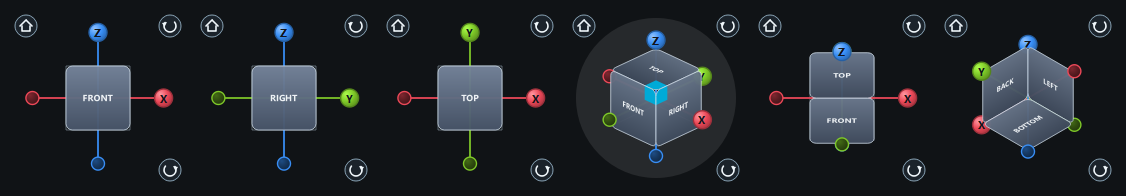
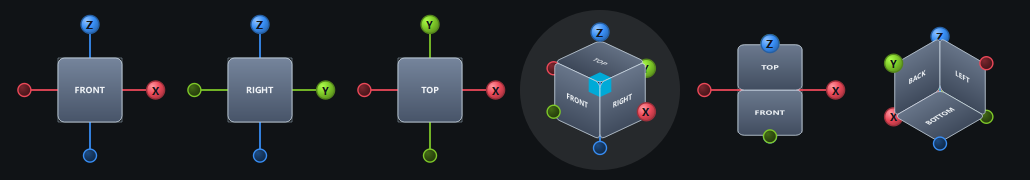
UX-27c: remove home/roll buttons; fix half-pixel misalignment that made labels look skewed
- The gizmo had home and roll buttons in its corners; review found them poor, so
  they are gone. Isometric (Ctrl+7) and Roll View Left/Right remain in the View
  menu and the command palette. Widget is smaller (160 px) without them.
- Live-window bug: the overlay image was centred on size/2 instead of
  (size-1)/2, so every display pixel sat on the boundary of two image pixels and
  glyph rows rounded unevenly. Head-on labels looked jagged/skewed in the running
  app while offscreen renders looked fine. The camera is now pixel-aligned and the
  image actor interpolates, so a fractional scale degrades smoothly.
- Faces are opaque (the see-through fill let the grid show through).
- Labels on faces turned steeply away fade out instead of smearing.

708 tests pass, ruff and mypy clean. Checked in the running app at 4x zoom.

diff --git a/src/openretop/presentation/qt/view_cube.py b/src/openretop/presentation/qt/view_cube.py
@@ -1,4 +1,4 @@
-"""Clickable orientation gizmo for the viewport: a glass view cube with XYZ axis balls.
+"""Clickable orientation gizmo for the viewport: a view cube with XYZ axis balls.
 
 The gizmo mirrors the main camera.  Each visible cube face is labelled (FRONT, BACK,
 LEFT, RIGHT, TOP, BOTTOM) and every face, edge and corner is a click target that snaps
@@ -6,7 +6,8 @@ the camera to that direction.  Faces are split 3x3 like a conventional CAD view 
 the centre is the face view, the border strips are edge views, and the corners are
 three-face (isometric style) views.  Around the cube, coloured balls mark the axes
 (solid for +X/+Y/+Z with a letter, muted for the negative ends); clicking one looks
-along that axis, as in Blender's navigation gizmo.
+along that axis, as in Blender's navigation gizmo.  There are deliberately no extra
+buttons: the isometric view and view roll are in the View menu and the command palette.
 
 Geometry and hit-testing are pure functions of the camera orientation so they can be
 unit-tested without Qt; :class:`ViewCubeWidget` only paints them.
@@ -32,7 +33,6 @@ from PySide6.QtGui import (
     QPainter,
     QPainterPath,
     QPen,
-    QPolygonF,
     QRadialGradient,
     QTransform,
 )
@@ -41,12 +41,11 @@ from PySide6.QtWidgets import QWidget
 Vec2 = tuple[float, float]
 Vec3 = tuple[float, float, float]
 
-CUBE_WIDGET_SIZE = 176
-CUBE_MARGIN = 10
+CUBE_WIDGET_SIZE = 160
+CUBE_MARGIN = 8
 CUBE_SCALE = 32.0  # pixels per cube half-edge
 _BAND = 0.5  # |local coordinate| beyond this on a face is an edge/corner strip
 _MIN_FACING = 0.02  # faces nearly edge-on are not drawn or clickable
-_ROLL_DEGREES_TEXT = "15 degrees"
 AXIS_DISTANCE = 2.05  # axis balls sit this many half-edges from the centre
 _AXIS_HIDE_OFFSET = 1.0  # a ball nearly end-on to the viewer would cover the cube face
 _BALL_RADIUS = (9.0, 6.5)  # positive, negative
@@ -71,9 +70,6 @@ _FACES: tuple[tuple[str, Vec3, Vec3, Vec3], ...] = (
     ("top", (0.0, 0.0, 1.0), (1.0, 0.0, 0.0), (0.0, 1.0, 0.0)),
     ("bottom", (0.0, 0.0, -1.0), (-1.0, 0.0, 0.0), (0.0, 1.0, 0.0)),
 )
-HOME_ACTION = "view.named.isometric"
-ROLL_LEFT_ACTION = "view.roll_left"
-ROLL_RIGHT_ACTION = "view.roll_right"
 
 
 @dataclass(frozen=True, slots=True)
@@ -236,7 +232,7 @@ class CubeHit:
 
 
 class ViewCubeWidget(QWidget):
-    """Paints the cube, XYZ axis balls and home/roll buttons, and hit-tests them.
+    """Paints the cube and XYZ axis balls, and hit-tests them.
 
     A Qt child widget cannot draw over QVTK's native OpenGL surface, so in the app this
     widget is never shown: the cluster renders it to an image (:meth:`render_image`),
@@ -320,16 +316,6 @@ class ViewCubeWidget(QWidget):
     def _to_view(self, point: QPointF) -> Vec2:
         return ((point.x() - self._centre.x()) / CUBE_SCALE, (self._centre.y() - point.y()) / CUBE_SCALE)
 
-    def _button_rect(self, action_id: str) -> QRectF:
-        size = 24.0
-        if action_id == HOME_ACTION:
-            return QRectF(CUBE_MARGIN - 6, CUBE_MARGIN - 6, size, size)
-        if action_id == ROLL_LEFT_ACTION:
-            return QRectF(CUBE_WIDGET_SIZE - size - CUBE_MARGIN + 6, CUBE_MARGIN - 6, size, size)
-        return QRectF(CUBE_WIDGET_SIZE - size - CUBE_MARGIN + 6, CUBE_WIDGET_SIZE - size - CUBE_MARGIN + 6, size, size)
-
-    _BUTTONS = (HOME_ACTION, ROLL_LEFT_ACTION, ROLL_RIGHT_ACTION)
-
     @property
     def axes(self) -> tuple[AxisBall, ...]:
         return self._axes
@@ -340,15 +326,6 @@ class ViewCubeWidget(QWidget):
     def hit_at(self, point: QPointF) -> CubeHit | None:
         """What a click at ``point`` (widget pixels) would do, or None."""
 
-        if self._show_cube:
-            titles = {
-                HOME_ACTION: "Isometric view (Ctrl+7)",
-                ROLL_LEFT_ACTION: f"Roll view left {_ROLL_DEGREES_TEXT}",
-                ROLL_RIGHT_ACTION: f"Roll view right {_ROLL_DEGREES_TEXT}",
-            }
-            for action_id in self._BUTTONS:
-                if self._button_rect(action_id).contains(point):
-                    return CubeHit(action_id, titles[action_id])
         view_point = self._to_view(point)
         if self._show_axes:
             for ball in sorted(self._axes, key=lambda item: item.depth):  # nearest first
@@ -416,7 +393,7 @@ class ViewCubeWidget(QWidget):
         hover_axis = hover[len("view.named.") : -len("#axis")] if hover is not None and hover.endswith("#axis") else None
         hover_name = (
             hover[len("view.named.") :]
-            if hover is not None and hover.startswith("view.named.") and not hover.endswith("#axis") and hover != HOME_ACTION
+            if hover is not None and hover.startswith("view.named.") and not hover.endswith("#axis")
             else None
         )
         # Painter's algorithm: far to near, so balls pass behind and in front of the cube.
@@ -434,9 +411,6 @@ class ViewCubeWidget(QWidget):
                 items.append((ball.depth, partial(self._paint_ball, painter, ball, ball.name == hover_axis)))
         for _depth, draw in sorted(items, key=lambda item: -item[0]):
             draw()
-        if self._show_cube:
-            for action_id in self._BUTTONS:
-                self._paint_button(painter, action_id)
 
     def _face_path(self) -> QPainterPath:
         s = CUBE_SCALE
@@ -467,8 +441,8 @@ class ViewCubeWidget(QWidget):
         painter.setTransform(self._face_transform(face), False)
         shade = 0.70 + 0.30 * face.facing
         gradient = QLinearGradient(0.0, -s, 0.0, s)
-        gradient.setColorAt(0.0, QColor.fromRgbF(0.46 * shade, 0.52 * shade, 0.61 * shade, 0.96))
-        gradient.setColorAt(1.0, QColor.fromRgbF(0.28 * shade, 0.33 * shade, 0.41 * shade, 0.96))
+        gradient.setColorAt(0.0, QColor.fromRgbF(0.46 * shade, 0.52 * shade, 0.61 * shade))
+        gradient.setColorAt(1.0, QColor.fromRgbF(0.28 * shade, 0.33 * shade, 0.41 * shade))
         path = self._face_path()
         painter.setPen(Qt.PenStyle.NoPen)
         painter.setBrush(gradient)
@@ -499,7 +473,9 @@ class ViewCubeWidget(QWidget):
         bounds = text.boundingRect()
         text.translate(-bounds.center().x(), -bounds.center().y())
         painter.setPen(Qt.PenStyle.NoPen)
-        painter.setBrush(QColor(248, 251, 253, 240))
+        # Labels on faces turned steeply away would only be a smear: fade them out.
+        legibility = min(max((face.facing - 0.2) / 0.35, 0.0), 1.0)
+        painter.setBrush(QColor(248, 251, 253, round(240 * legibility)))
         painter.drawPath(text)
         painter.restore()
 
@@ -551,37 +527,6 @@ class ViewCubeWidget(QWidget):
             painter.drawEllipse(centre, radius + 2.2, radius + 2.2)
         painter.restore()
 
-    def _paint_button(self, painter: QPainter, action_id: str) -> None:
-        rect = self._button_rect(action_id)
-        hovered = self._hover == action_id
-        painter.save()
-        painter.setPen(QPen(QColor(168, 200, 222, 200), 1.0))
-        painter.setBrush(_ACCENT if hovered else QColor(30, 40, 50, 195))
-        painter.drawEllipse(rect.adjusted(1, 1, -1, -1))
-        painter.setBrush(Qt.BrushStyle.NoBrush)
-        pen = QPen(QColor(240, 247, 251), 1.6, Qt.PenStyle.SolidLine, Qt.PenCapStyle.RoundCap, Qt.PenJoinStyle.RoundJoin)
-        painter.setPen(pen)
-        c = rect.center()
-        if action_id == HOME_ACTION:
-            roof = QPolygonF([QPointF(c.x() - 6, c.y()), QPointF(c.x(), c.y() - 6), QPointF(c.x() + 6, c.y())])
-            painter.drawPolyline(roof)
-            painter.drawPolyline(
-                QPolygonF([QPointF(c.x() - 4, c.y()), QPointF(c.x() - 4, c.y() + 5), QPointF(c.x() + 4, c.y() + 5), QPointF(c.x() + 4, c.y())])
-            )
-        else:
-            clockwise = action_id == ROLL_RIGHT_ACTION
-            arc = rect.adjusted(6, 6, -6, -6)
-            painter.drawArc(arc, (35 if clockwise else 145) * 16, (-255 if clockwise else 255) * 16)
-            tip_x = c.x() + (5.5 if clockwise else -5.5)
-            direction = 1 if clockwise else -1
-            painter.setBrush(QColor(240, 247, 251))
-            painter.setPen(Qt.PenStyle.NoPen)
-            painter.drawPolygon(
-                QPolygonF([QPointF(tip_x + 2.5 * direction, c.y() - 3), QPointF(tip_x - 2.5 * direction, c.y() - 4), QPointF(tip_x, c.y() + 1)])
-            )
-        painter.restore()
-
-
 def _dot(first: Iterable[float], second: Iterable[float]) -> float:
     return sum(a * b for a, b in zip(first, second))
 
@@ -609,10 +554,7 @@ __all__ = (
     "AXIS_DISTANCE",
     "AxisBall",
     "CubeHit",
-    "HOME_ACTION",
     "ProjectedFace",
-    "ROLL_LEFT_ACTION",
-    "ROLL_RIGHT_ACTION",
     "ViewCubeWidget",
     "axis_title",
     "cell_view_name",

diff --git a/tests/test_view_cube.py b/tests/test_view_cube.py
@@ -21,9 +21,6 @@ from openretop.presentation.qt.view_cube import (
     AXIS_DISTANCE,
     CUBE_SCALE,
     CUBE_WIDGET_SIZE,
-    HOME_ACTION,
-    ROLL_LEFT_ACTION,
-    ROLL_RIGHT_ACTION,
     ViewCubeWidget,
     axis_title,
     cell_view_name,
@@ -286,14 +283,13 @@ class CubeWidgetTests(unittest.TestCase):
         self.assertIsNone(widget.hit_at(self._point(widget, 1.3, 1.3)))
         self.assertIsNone(widget.hit_at(QPointF(CUBE_WIDGET_SIZE / 2, 2.0)))
 
-    def test_home_and_roll_buttons_map_to_actions(self) -> None:
+    def test_there_are_no_buttons_only_cube_regions_and_axis_balls(self) -> None:
         widget = ViewCubeWidget()
-        for action_id in (HOME_ACTION, ROLL_LEFT_ACTION, ROLL_RIGHT_ACTION):
-            with self.subTest(action=action_id):
-                centre = widget._button_rect(action_id).center()
-                hit = widget.hit_at(centre)
-                self.assertIsNotNone(hit)
-                self.assertEqual(hit.action_id, action_id)
+        widget.set_orientation(*_orientation("front"))
+        corners = [QPointF(4, 4), QPointF(CUBE_WIDGET_SIZE - 4, 4), QPointF(4, CUBE_WIDGET_SIZE - 4), QPointF(CUBE_WIDGET_SIZE - 4, CUBE_WIDGET_SIZE - 4)]
+        for corner in corners:
+            with self.subTest(corner=(corner.x(), corner.y())):
+                self.assertIsNone(widget.hit_at(corner))
 
     def test_orientation_follows_the_camera_and_back_faces_are_not_clickable(self) -> None:
         widget = ViewCubeWidget()

diff --git a/src/openretop/presentation/qt/view_controls.py b/src/openretop/presentation/qt/view_controls.py
@@ -75,7 +75,7 @@ class _CubeImageOverlay:
         self.image = vtkImageData()
         self.actor = vtkImageActor()
         self.actor.SetInputData(self.image)
-        self.actor.InterpolateOff()
+        self.actor.InterpolateOn()  # harmless when pixel-aligned, smooth if the scale is fractional
         self.actor.PickableOff()
         self.actor.DragableOff()
         self.renderer = vtkRenderer()
@@ -121,8 +121,12 @@ class _CubeImageOverlay:
         if self._size != (width, height):
             self._size = (width, height)
             camera = self.renderer.GetActiveCamera()
-            camera.SetFocalPoint(width / 2.0, height / 2.0, 0.0)
-            camera.SetPosition(width / 2.0, height / 2.0, 10.0 * max(width, height))
+            # Image pixel i is centred on world coordinate i, so the visible range must be
+            # [-0.5, size - 0.5]; centring on size / 2 would put every display pixel on the
+            # boundary between two image pixels and make glyph rows round unevenly.
+            centre_x, centre_y = (width - 1) / 2.0, (height - 1) / 2.0
+            camera.SetFocalPoint(centre_x, centre_y, 0.0)
+            camera.SetPosition(centre_x, centre_y, 10.0 * max(width, height))
             camera.SetViewUp(0.0, 1.0, 0.0)
             camera.SetParallelScale(height / 2.0)
             camera.SetClippingRange(1.0, 100.0 * max(width, height))

diff --git a/tests/test_viewport_interaction.py b/tests/test_viewport_interaction.py
@@ -745,9 +745,13 @@ class OverlayTests(unittest.TestCase):
             _ready_without_native_render(viewport)
             cluster = viewport.navigation_cluster
             widget = cluster.widget
+            widget.set_orientation((0.0, 1.0, 0.0), (0.0, 0.0, 1.0))  # looking at the front face
             x, y, _w, _h = cluster.logical_bounds
-            for action_id in ("view.named.isometric", "view.roll_left", "view.roll_right"):
-                centre = widget._button_rect(action_id).center()
+            targets = {
+                "view.named.front": QPointF(widget._centre.x(), widget._centre.y()),  # the face
+                "view.named.top": QPointF(*(widget._ball_pixel(next(b for b in widget.axes if b.name == "top")).toTuple())),
+            }
+            for action_id, centre in targets.items():
                 point = QPointF(x + centre.x(), y + centre.y())
                 for kind, buttons in (
                     (QEvent.Type.MouseButtonPress, Qt.MouseButton.LeftButton),

diff --git a/docs/plan/TASKS.md b/docs/plan/TASKS.md
@@ -43,7 +43,7 @@ Principles and findings: [UX_AUDIT.md](UX_AUDIT.md).
 | UX-16 | P2 | S | done | Fix the Properties header/"Diagnostics" overlap | Screenshot comparison in a test or manual check recorded in the commit. |
 | UX-26 | P0 | S | done | Selections made in the viewport (picks) now update the Scene tree and Properties panel; the Properties panel no longer paints stale group boxes | Pick a curve in the viewport: tree row highlights, inspector shows its fields (`tests/test_ux_selection_sync.py`). Found while verifying UX-16. |
 
-| UX-27 | P0 | M | done | **View gizmo** replaces the old axes arrow and triangle buttons ([before](img/gizmo_before.png), [after](img/view_cube_in_app.png)): a glass view cube (FRONT/BACK/LEFT/RIGHT/TOP/BOTTOM labels, every face, edge and corner clickable = 26 views) combined with Blender-style XYZ axis balls (solid +X/+Y/+Z with letters, muted negative ends; clicking one looks along that axis), home = isometric, roll left/right, hover highlight and tooltips | Behaviour covered by `tests/test_view_cube.py` (40 tests: all 26 regions reachable, labels never mirrored, ball hit-testing and occlusion, 2x DPI image). Verified in the running app with real mouse clicks (edge, corner, home, axis ball). Drawn into the VTK frame (a Qt image shown by an overlay renderer) so it does not depend on Qt drawing over the native GL surface. `show_viewcube` controls the cube and buttons, `show_axis_gizmo` the axis balls. |
+| UX-27 | P0 | M | done | **View gizmo** replaces the old axes arrow and triangle buttons ([before](img/gizmo_before.png), [after](img/view_cube_in_app.png)): a glass view cube (FRONT/BACK/LEFT/RIGHT/TOP/BOTTOM labels, every face, edge and corner clickable = 26 views) combined with Blender-style XYZ axis balls (solid +X/+Y/+Z with letters, muted negative ends; clicking one looks along that axis), hover highlight and tooltips. No home/roll buttons (removed after review: they cluttered the gizmo); Isometric and Roll View stay in the View menu and Ctrl+K | Behaviour covered by `tests/test_view_cube.py` (all 26 regions reachable, labels never mirrored, ball hit-testing and occlusion, 2x DPI image). Verified in the running app with real mouse clicks (edge, corner, axis ball) and at 4x zoom: the overlay image is pixel-aligned, so glyph rows are even (a half-pixel offset had made head-on labels look jagged and skewed in the live window while offscreen renders looked fine). Drawn into the VTK frame (a Qt image shown by an overlay renderer) so it does not depend on Qt drawing over the native GL surface. `show_viewcube` controls the cube and buttons, `show_axis_gizmo` the axis balls. |
 
 ### Slice B
 | ID | P | Size | Status | Task | Acceptance |
